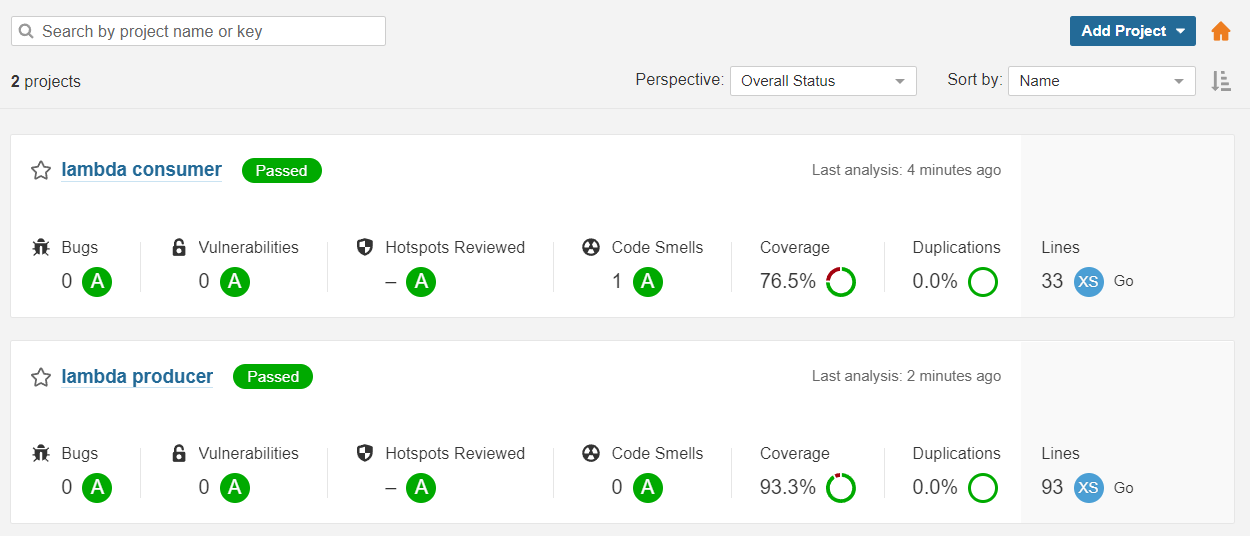
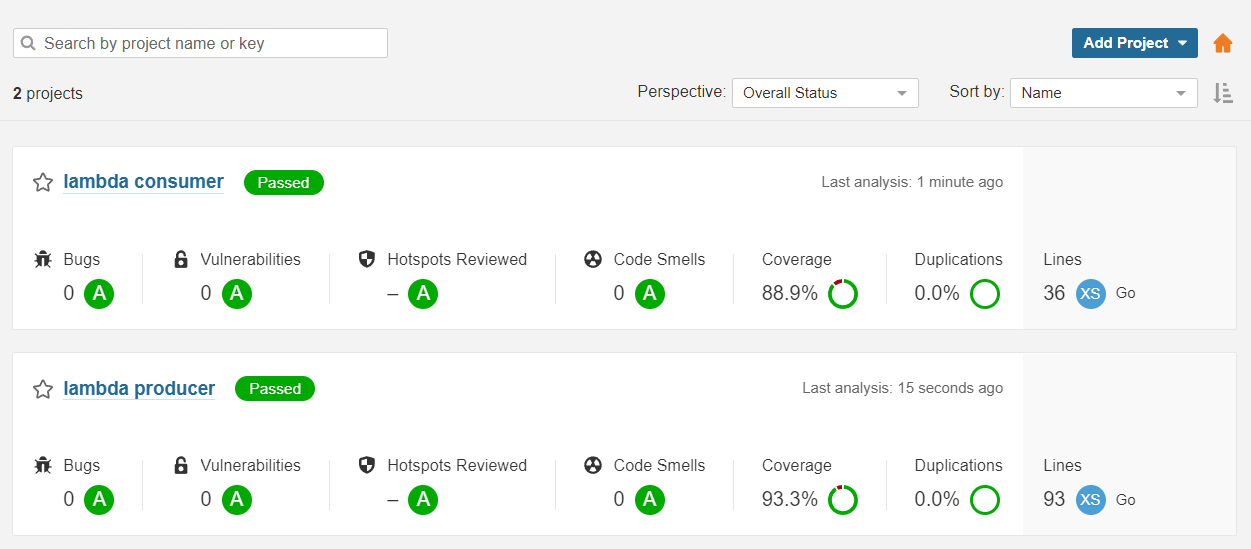
Adjust coverage for sonarqube

diff --git a/lambda-consumer/tests/usecase/persistMessage_test.go b/lambda-consumer/tests/usecase/persistMessage_test.go
@@ -36,7 +36,7 @@ func TestPersistMessage(t *testing.T) {
 	}
 }
 
-func TestPersistMessageFailed(t *testing.T) {
+func TestPersistMessageFailedWhenPersisting(t *testing.T) {
 	ctx := context.Background()
 
 	expectedErr := errors.New("Error while persisting data")
@@ -52,11 +52,26 @@ func TestPersistMessageFailed(t *testing.T) {
 		MessageTexts: []dto.MessageTextsDto{},
 	}
 	tableName := "rekognition-table"
-
 	messageEncodedMock, _ := json.Marshal(&messageDtoMock)
 
 	err := usecase.PersistMessage(ctx, dynamoDbClient, tableName, messageEncodedMock)
-	if err != expectedErr {
+	if err.Error() != expectedErr.Error() {
+		t.Errorf("Expected err to be %v, got %v", expectedErr, err)
+	}
+}
+
+func TestPersistMessageFailedWhenUnmarshaling(t *testing.T) {
+	ctx := context.Background()
+
+	expectedErr := errors.New("unexpected end of JSON input")
+
+	dynamoDbClient := &adapter.DynamoDbClientAdapter{}
+
+	tableName := "rekognition-table"
+	messageEncodedMock := []byte{}
+
+	err := usecase.PersistMessage(ctx, dynamoDbClient, tableName, messageEncodedMock)
+	if err.Error() != expectedErr.Error() {
 		t.Errorf("Expected err to be %v, got %v", expectedErr, err)
 	}
 }

diff --git a/lambda-consumer/application/usecase/persistMessage.go b/lambda-consumer/application/usecase/persistMessage.go
@@ -11,15 +11,19 @@ import (
 	"github.com/juliocesarscheidt/lambda-consumer/application/dto"
 )
 
+func fmtError(err error) {
+	fmt.Println(fmt.Sprintf("Error: %s", err))
+}
+
 func PersistMessage(ctx context.Context, dynamoDbClient *adapter.DynamoDbClientAdapter, tableName string, itemData []byte) error {
 	var messageDto dto.MessageDto
 	if err := json.Unmarshal(itemData, &messageDto); err != nil {
-		fmt.Println(fmt.Sprintf("Error: %s", err))
+		fmtError(err)
 		return err
 	}
 	dynamoDbItem, err := dynamodbattribute.MarshalMap(messageDto)
 	if err != nil {
-		fmt.Println(fmt.Sprintf("Error: %s", err))
+		fmtError(err)
 		return err
 	}
 	inputPutItem := &dynamodb.PutItemInput{
@@ -28,7 +32,7 @@ func PersistMessage(ctx context.Context, dynamoDbClient *adapter.DynamoDbClientA
 	}
 	_, err = dynamoDbClient.PutItemWithContext(ctx, inputPutItem)
 	if err != nil {
-		fmt.Println(fmt.Sprintf("Error: %s", err))
+		fmtError(err)
 		return err
 	}
 	return nil

diff --git a/README.md b/README.md
@@ -21,8 +21,6 @@ Instructions for deploy here: [Instructions](./infrastructure/README.md)
 
 ## Code coverage
 
-It was used Sonarqube locally to gather the coverage for unit tests
+It was used Sonarqube to gather the coverage for unit tests.
 
 ![Quality Gate](./quality-gate/sonarqube.png)
-
-- [ ] TODO: Increase coverage
